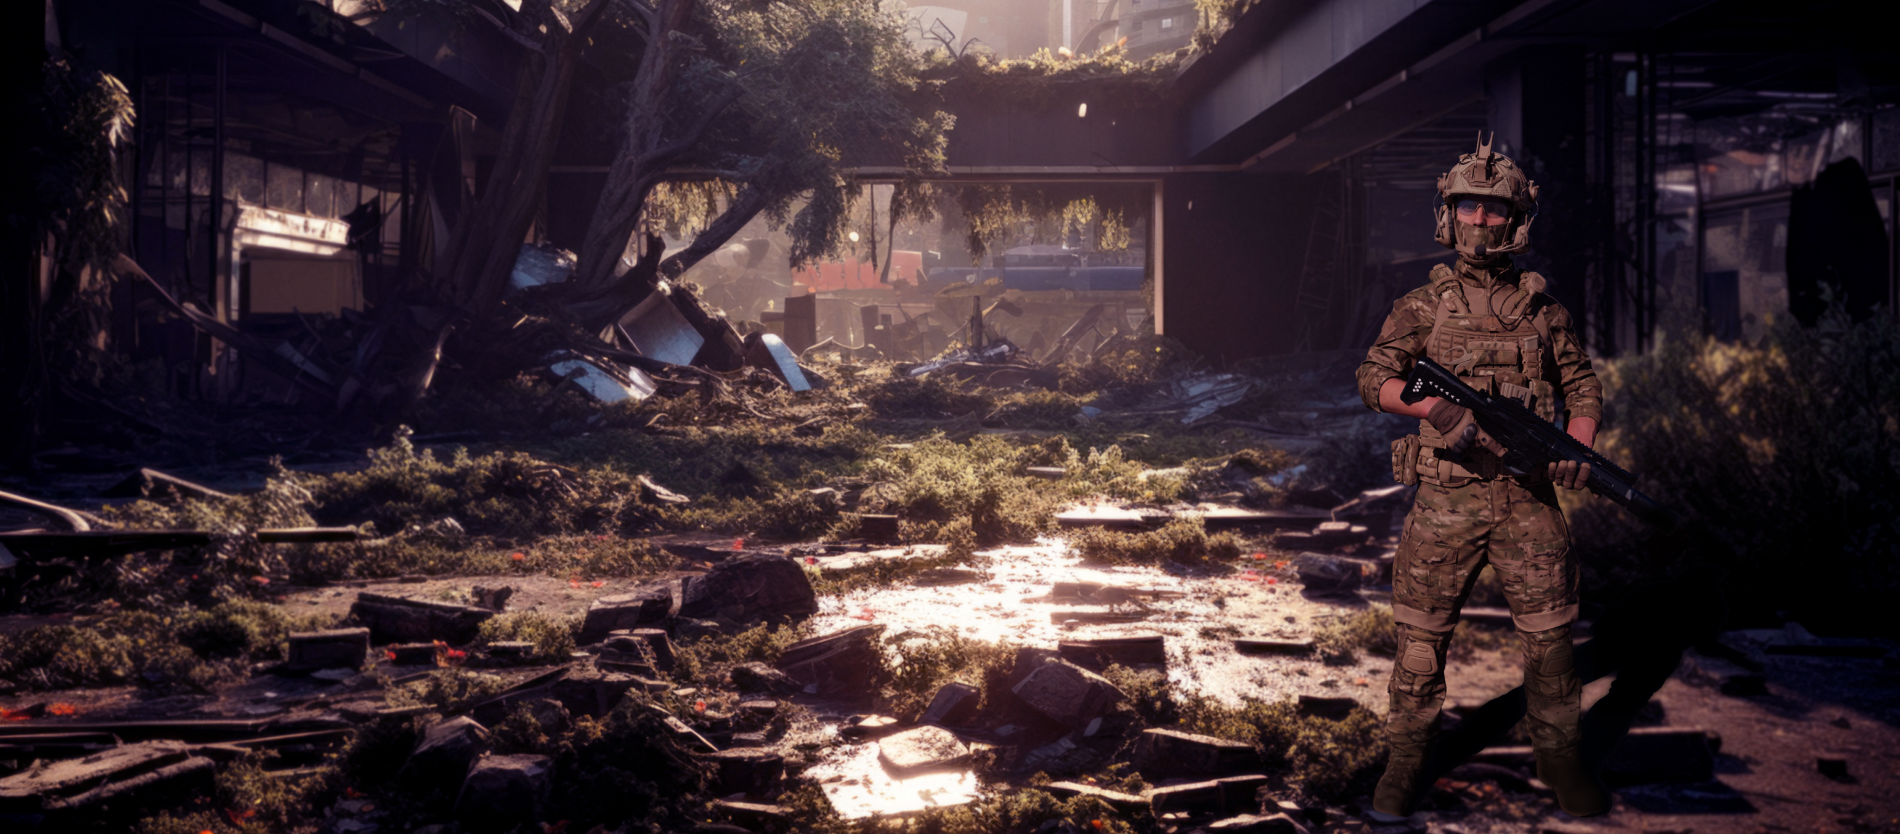
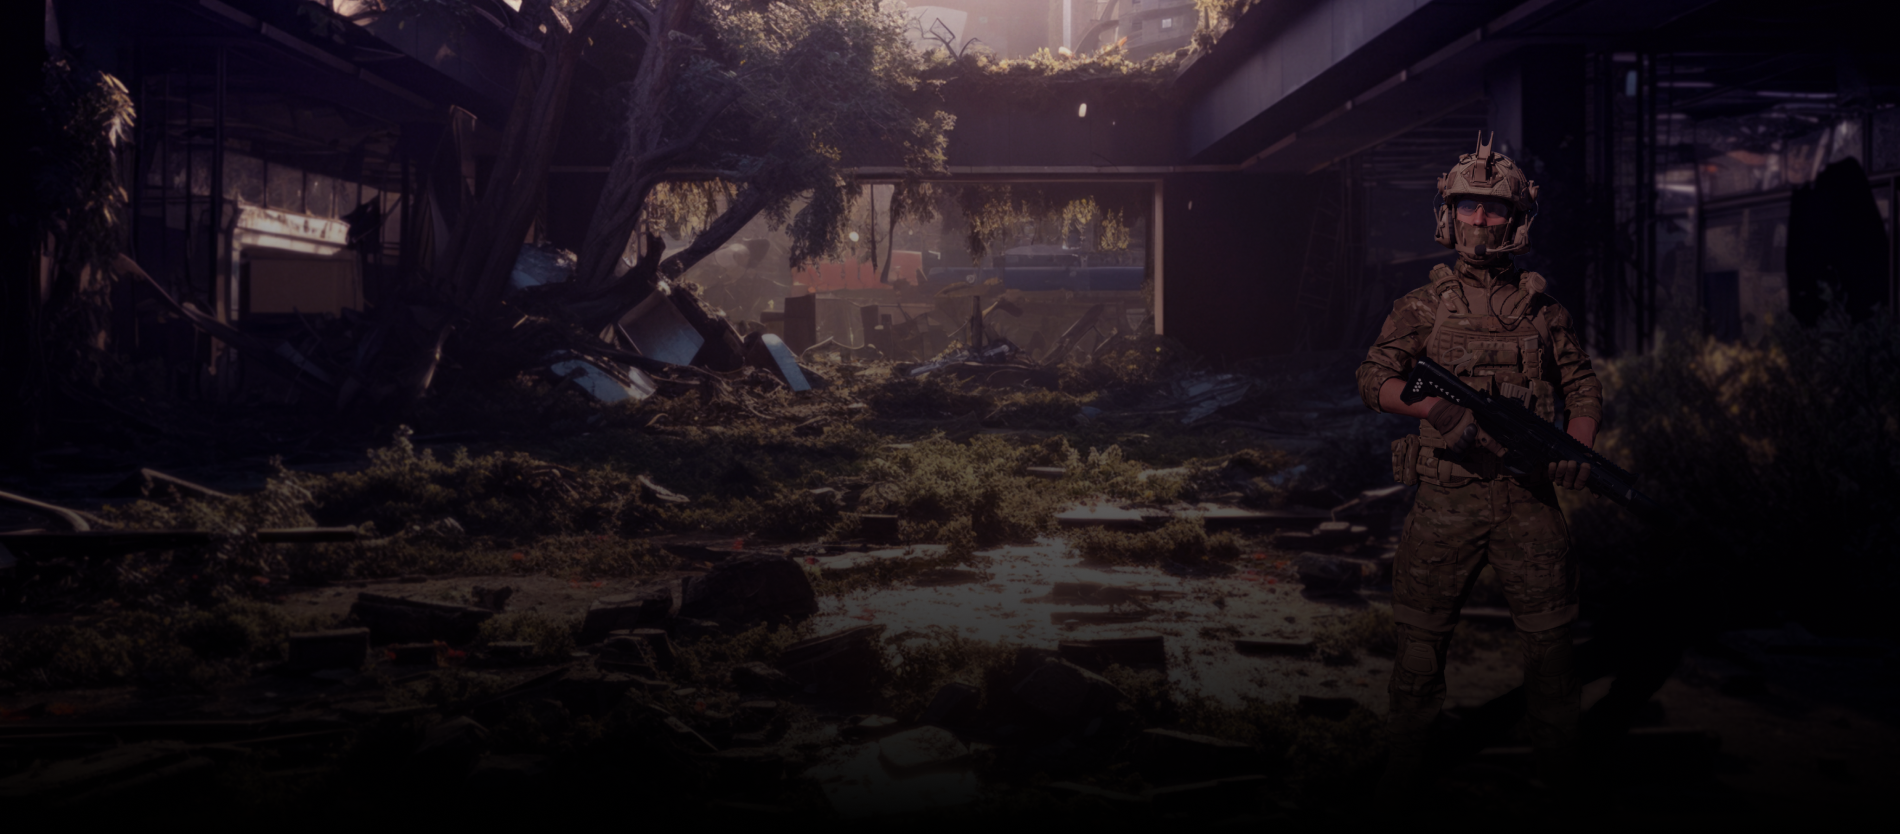
feat: add gradient to background & fix nav font

diff --git a/components/Navbar/index.tsx b/components/Navbar/index.tsx
@@ -4,6 +4,7 @@ import SubtractLine from '@/public/assets/images/subtract.png';
 import Logo from '@/public/assets/images/logo.svg';
 import UpArrow from '@/public/assets/images/uparrow.png';
 import ConnectWalletBtn from '@/public/assets/images/connect-wallet-btn.svg';
+import { BaiJamjuree600 } from '@/public/assets/fonts';
 
 interface Props {}
 
@@ -16,7 +17,7 @@ function Navbar(props: Props) {
         src={SubtractLine}
         alt='Subtract Line'
       />
-      <div className='absolute top-0 w-full h-full'>
+      <div className={`absolute top-0 w-full h-full ${BaiJamjuree600.className}`}>
         <div className='w-9/12 h-full mx-auto'>
           <div className='max-h-[80%] flex justify-between items-center top-0'>
             <Image

diff --git a/components/NFTTotal/index.tsx b/components/NFTTotal/index.tsx
@@ -10,6 +10,16 @@ function NFTTotal(props: Props) {
     <div className='flex flex-row gap-14 justify-start mt-32 items-start'>
       <Clock />
       <div className='mt-[2.25rem] border-[1px] h-0 border-[#EEEFF0] rotate-90 w-[4.5rem] shadow-[0px_4px_4px_rgba(0,0,0,0.25)]'></div>
+      <div className='uppercase text-[#FFFFFF] font-bold'
+        style={{
+          fontFamily: `'Clash Display', sans-serif`
+        }}>
+        <div>Airdrop</div>
+        <div className='mt-4'>
+          <div><span className='text-[#0ED4FF]'>$20,000</span> Worth</div>
+          <div>of nft in total</div>
+        </div>
+      </div>
     </div>
   )
 }

diff --git a/components/TexturedText/index.tsx b/components/TexturedText/index.tsx
@@ -23,7 +23,7 @@ function TexturedText(props: Props) {
       className={className}
     >
       {
-        texts.map(text => <>{text}<br/></>)
+        texts.map((text, index) => <span key={index}>{text}<br/></span>)
       }
     </div>
   )

diff --git a/components/Dashboard/index.tsx b/components/Dashboard/index.tsx
@@ -20,6 +20,7 @@ function Dashboard(props: Props) {
           width: '100%',
           height: 'auto',
         }}
+        priority={true}
       />
       <div className='absolute top-0'>
         <Navbar />

diff --git a/public/assets/fonts/index.ts b/public/assets/fonts/index.ts
@@ -1,0 +1,8 @@
+import { Bai_Jamjuree } from 'next/font/google'
+
+const BaiJamjuree600 = Bai_Jamjuree({
+  weight: '600',
+  preload: false
+})
+
+export { BaiJamjuree600 }
